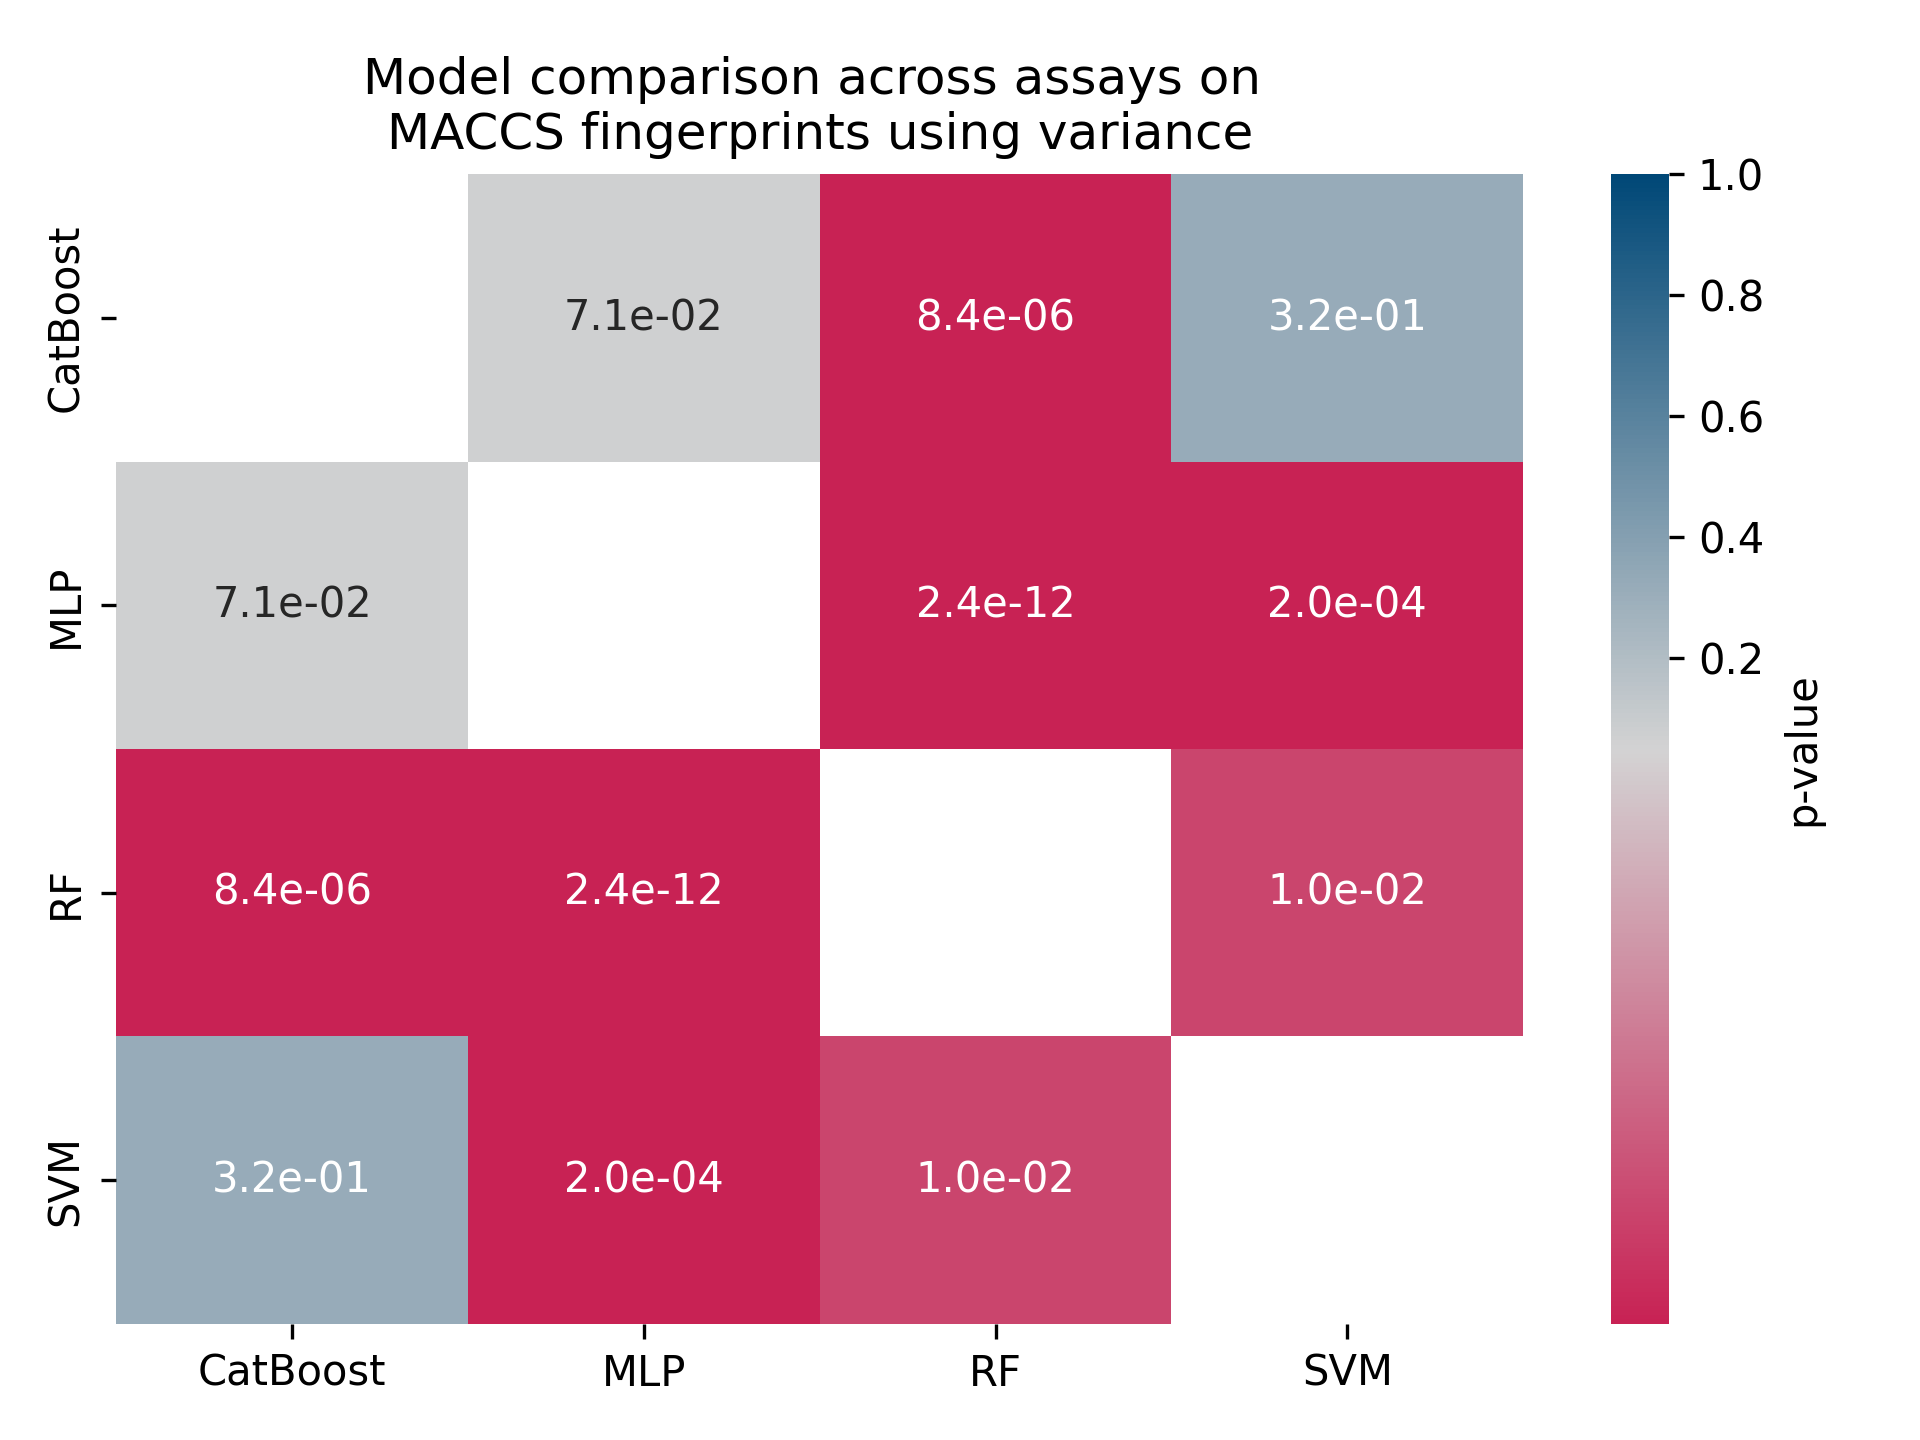
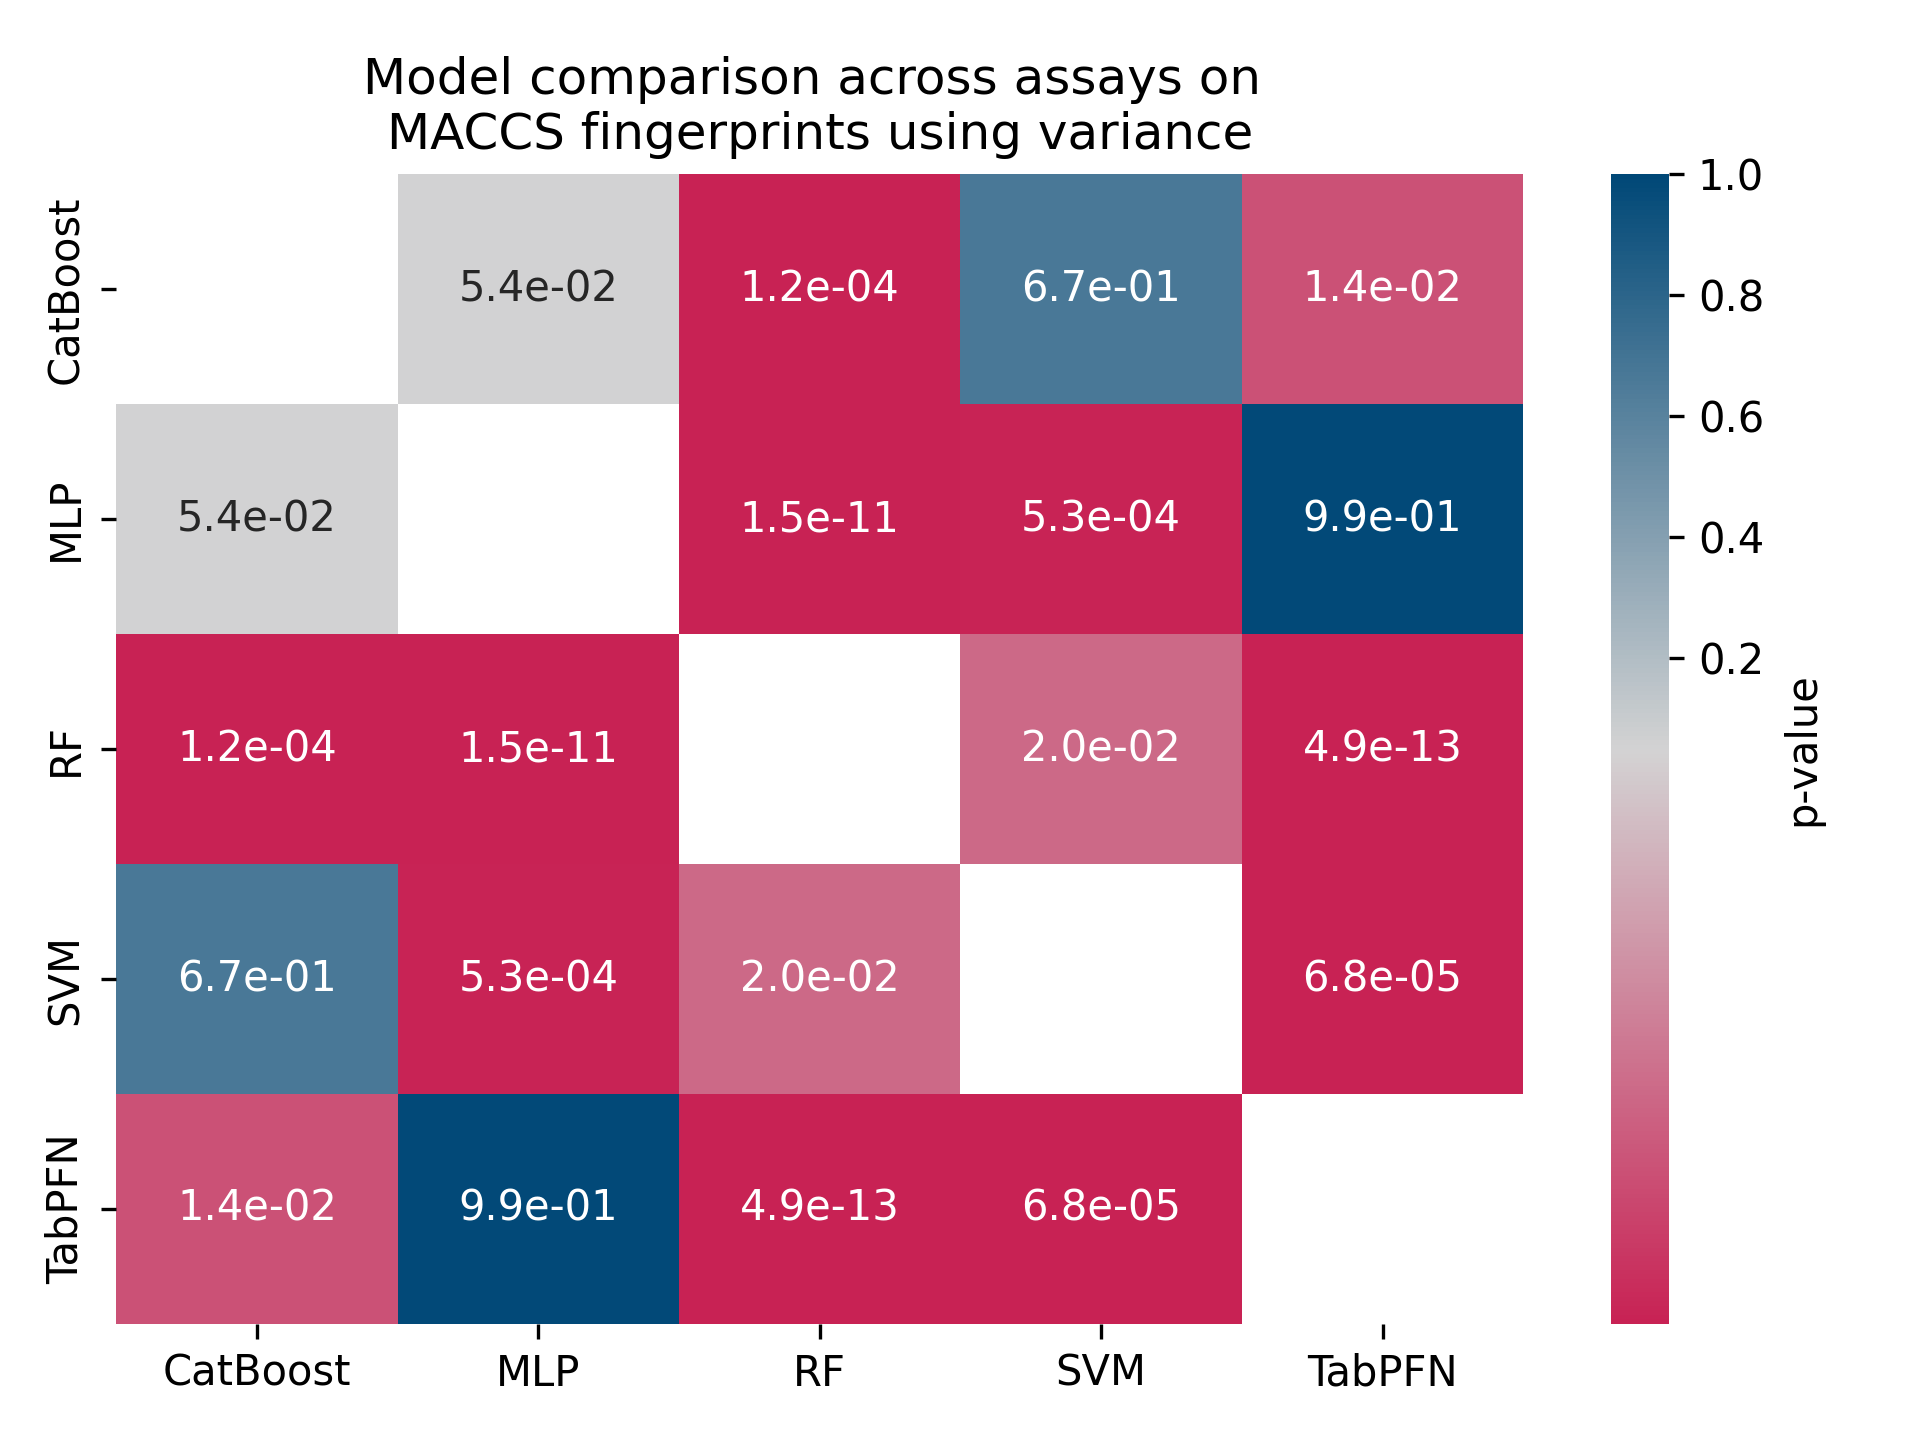
added plots for maccs pca + corrected bug in plotting scripts

diff --git a/evaluation/generate_model_comparison_per_feature_type_and_DR_method.py b/evaluation/generate_model_comparison_per_feature_type_and_DR_method.py
@@ -65,7 +65,9 @@ def cd_plot_for_nemenyi(final_results, dr_method, model_name_map, feature_type, 
 
     # generate p-value heat map
     plt.close('all')
-    norm = TwoSlopeNorm(vmin=pvals.values.min(),
+
+
+    norm = TwoSlopeNorm(vmin=min(pvals.values.min(), 0.04),
                         vmax=pvals.values.max(), vcenter=0.05)
 
     cmap = LinearSegmentedColormap.from_list(

diff --git a/evaluation/generate_DR_method_comparison_across_and_per_model.py b/evaluation/generate_DR_method_comparison_across_and_per_model.py
@@ -63,7 +63,7 @@ def cd_plot_for_nemenyi(final_results, dr_name_map, feature_type, feature_name_m
     # generate p-value heat map
     plt.close('all')
 
-    norm = TwoSlopeNorm(vmin=pvals.values.min(),
+    norm = TwoSlopeNorm(vmin=min(pvals.values.min(), 0.04),
                         vmax=pvals.values.max(), vcenter=0.05)
 
     cmap = LinearSegmentedColormap.from_list(

diff --git a/evaluation/generate_representation_comparison_across_and_per_model.py b/evaluation/generate_representation_comparison_across_and_per_model.py
@@ -62,7 +62,7 @@ def cd_plot_for_nemenyi(final_results, feature_name_map, output_dir, model = Non
     # generate p-value heat map
     plt.close('all')
 
-    norm = TwoSlopeNorm(vmin=pvals.values.min(),
+    norm = TwoSlopeNorm(vmin=min(pvals.values.min(), 0.04),
                         vmax=pvals.values.max(), vcenter=0.05)
 
     cmap = LinearSegmentedColormap.from_list(

diff --git a/evaluation/generate_model_comparison_across_all_feature_and_DR_methods.py b/evaluation/generate_model_comparison_across_all_feature_and_DR_methods.py
@@ -63,7 +63,7 @@ def cd_plot_for_nemenyi(final_results, model_name_map, output_dir):
     # generate p-value heat map
     plt.close('all')
 
-    norm = TwoSlopeNorm(vmin=pvals.values.min(),
+    norm = TwoSlopeNorm(vmin=min(pvals.values.min(), 0.04),
                         vmax=pvals.values.max(), vcenter=0.05)
 
     cmap = LinearSegmentedColormap.from_list(
